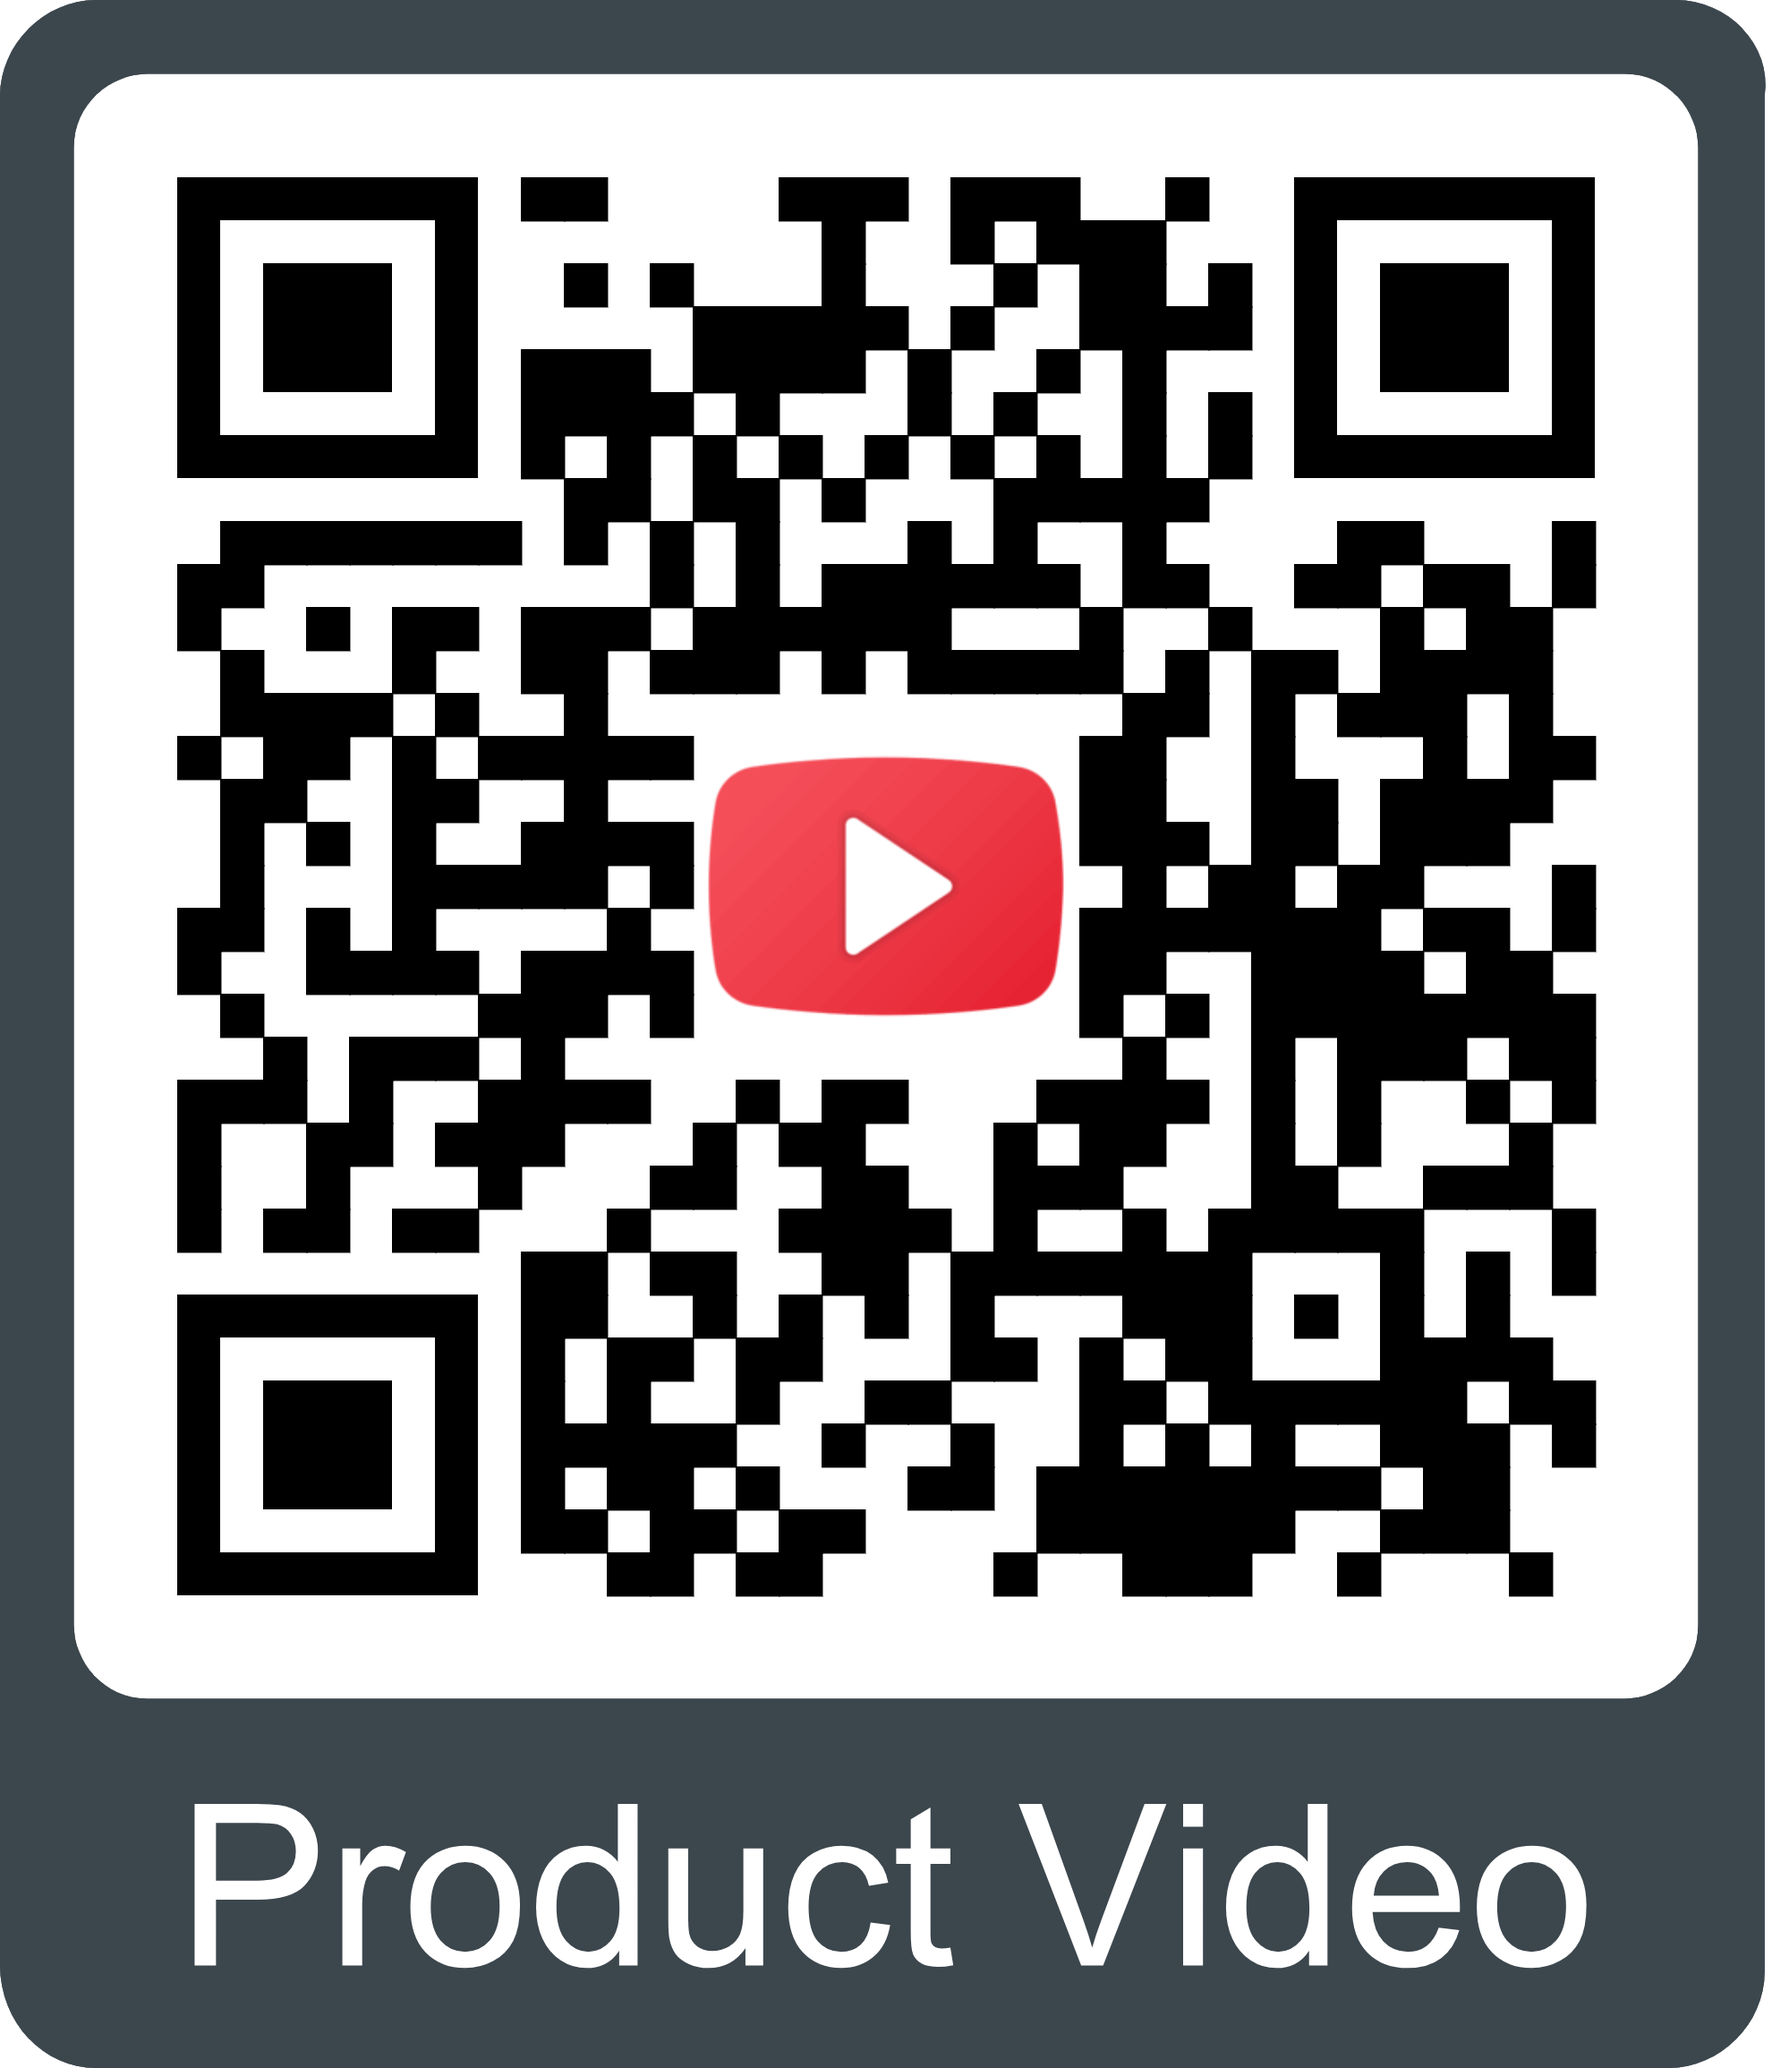
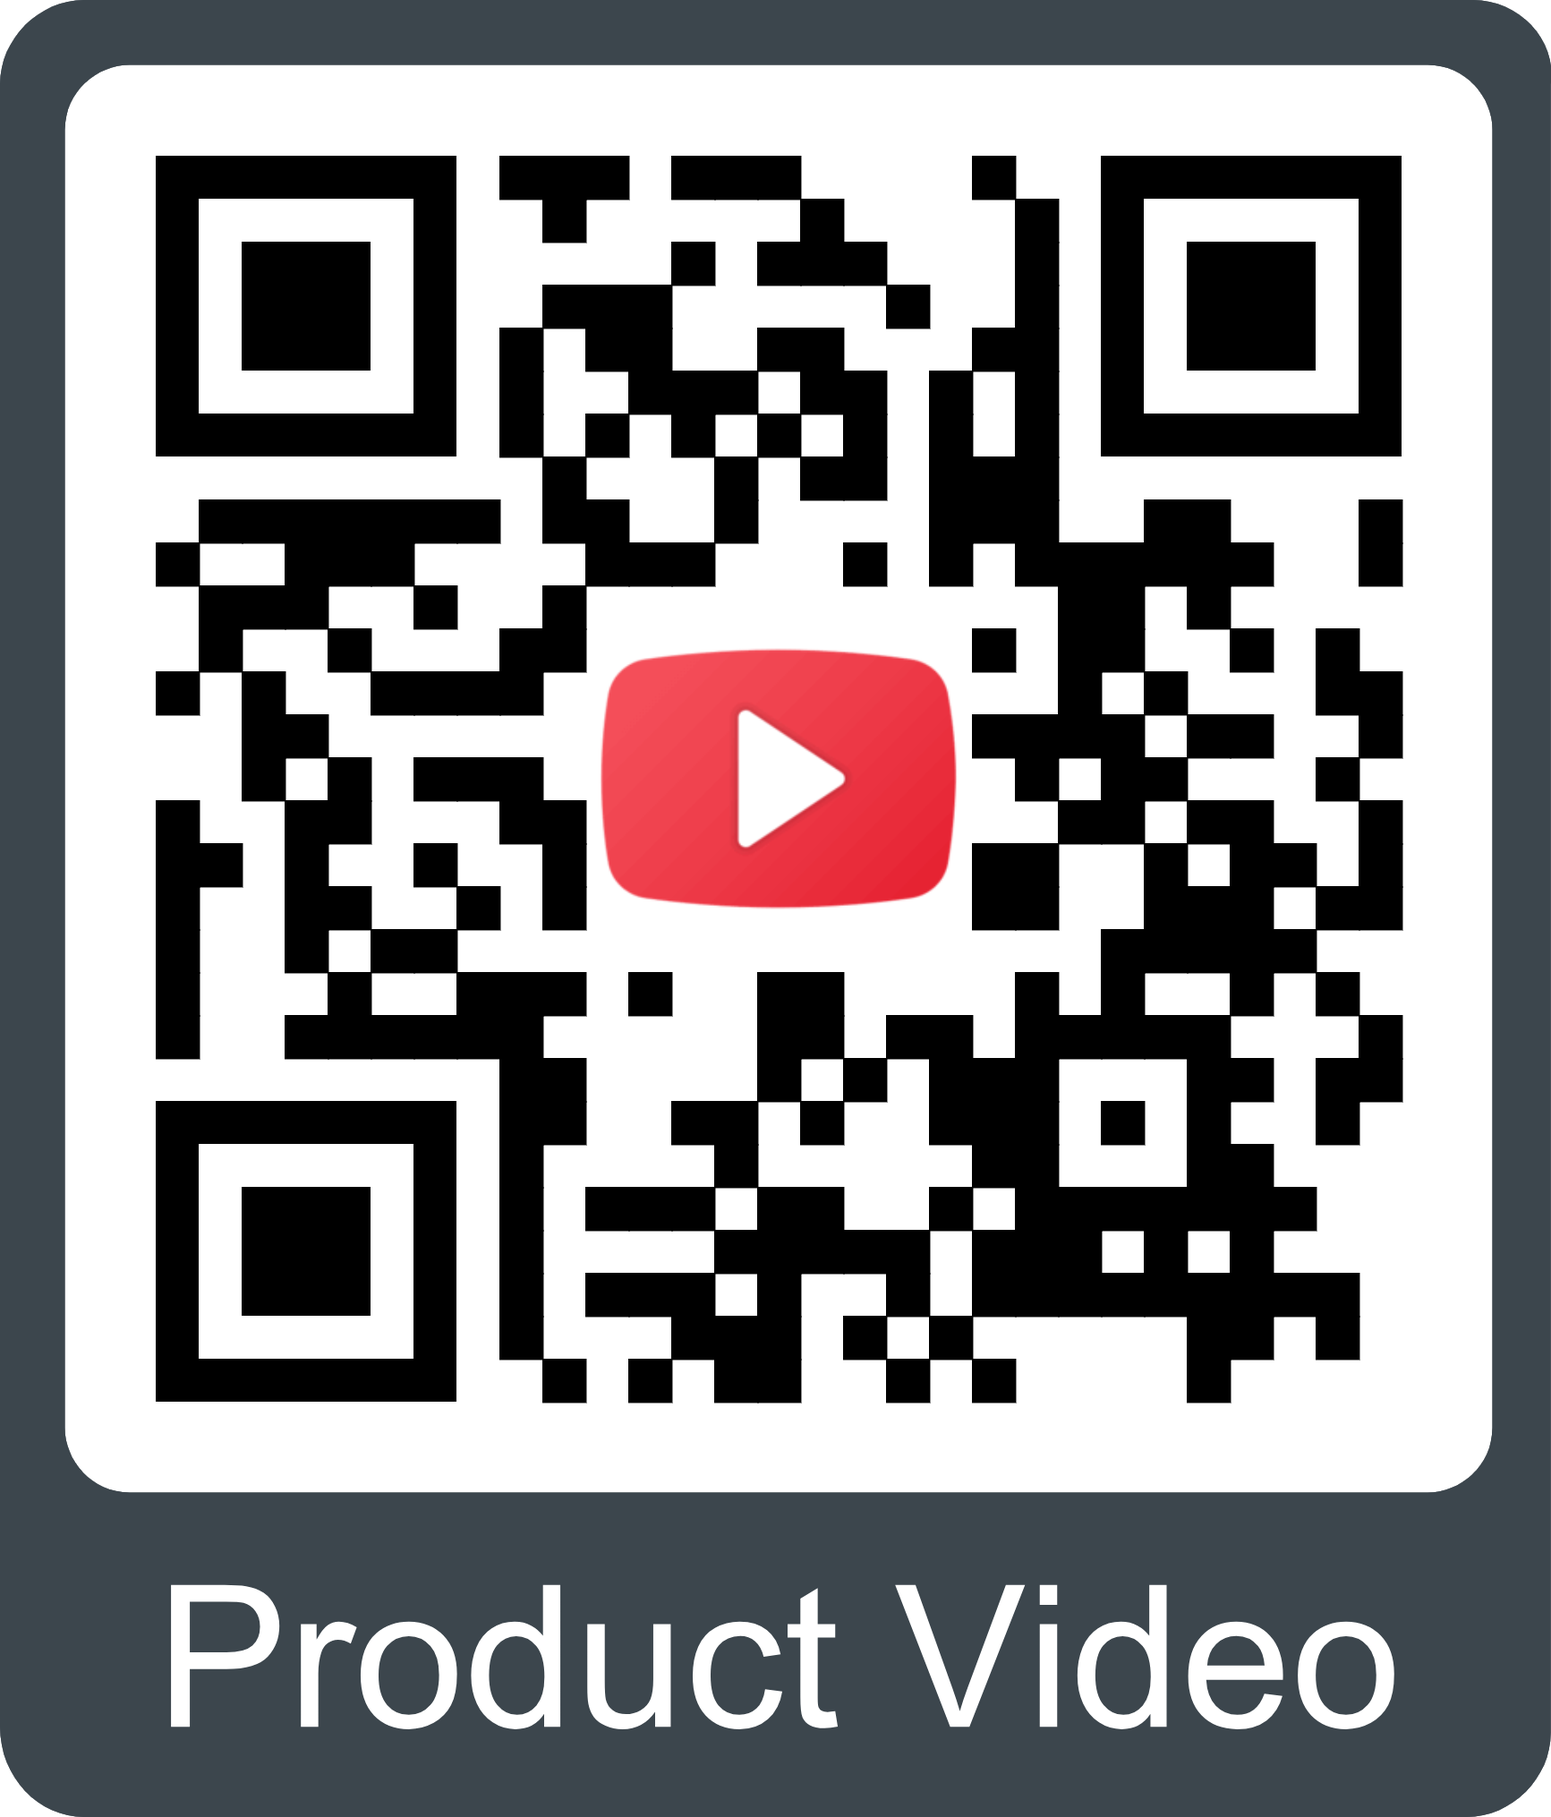
Update video link
Product video was updated

diff --git a/docs/introduction.md b/docs/introduction.md
@@ -17,7 +17,7 @@ icon: material/book-open-page-variant
 
 	<center>
 	<article class="video_desc">
-	<iframe src="https://www.youtube.com/embed/c_TUwVMXtvM" title="Product Showcase: SparkFun IoT Brushless Motor Driver (ESP32 WROOM, TMC6300)" frameborder="0" allow="accelerometer; autoplay; clipboard-write; encrypted-media; gyroscope; picture-in-picture" allowfullscreen></iframe>
+	<iframe src="https://www.youtube.com/embed/4GGIxnUDrU0" title="Product Showcase: SparkFun IoT Brushless Motor Driver (ESP32 WROOM, TMC6300)" frameborder="0" allow="accelerometer; autoplay; clipboard-write; encrypted-media; gyroscope; picture-in-picture" allowfullscreen></iframe>
 	</article>
 	![QR code to play video](./assets/img/qr_code/product_video.png){ .qr }
 	</center>

diff --git a/docs/resources.md b/docs/resources.md
@@ -17,7 +17,7 @@
 		* [Installation](https://docs.simplefoc.com/library_download)
 		* [Supported Hardware](https://docs.simplefoc.com/supported_hardware)
 		* [Code Overview](https://docs.simplefoc.com/code)
-* :material-youtube: [SFE Product Showcase](https://youtu.be/c_TUwVMXtvM)
+* :material-youtube: [SFE Product Showcase](https://youtu.be/4GGIxnUDrU0)
 * :material-github: [Hardware Repo](https://github.com/sparkfun/SparkFun_IoT_Brushless_Motor_Driver)
 
 
